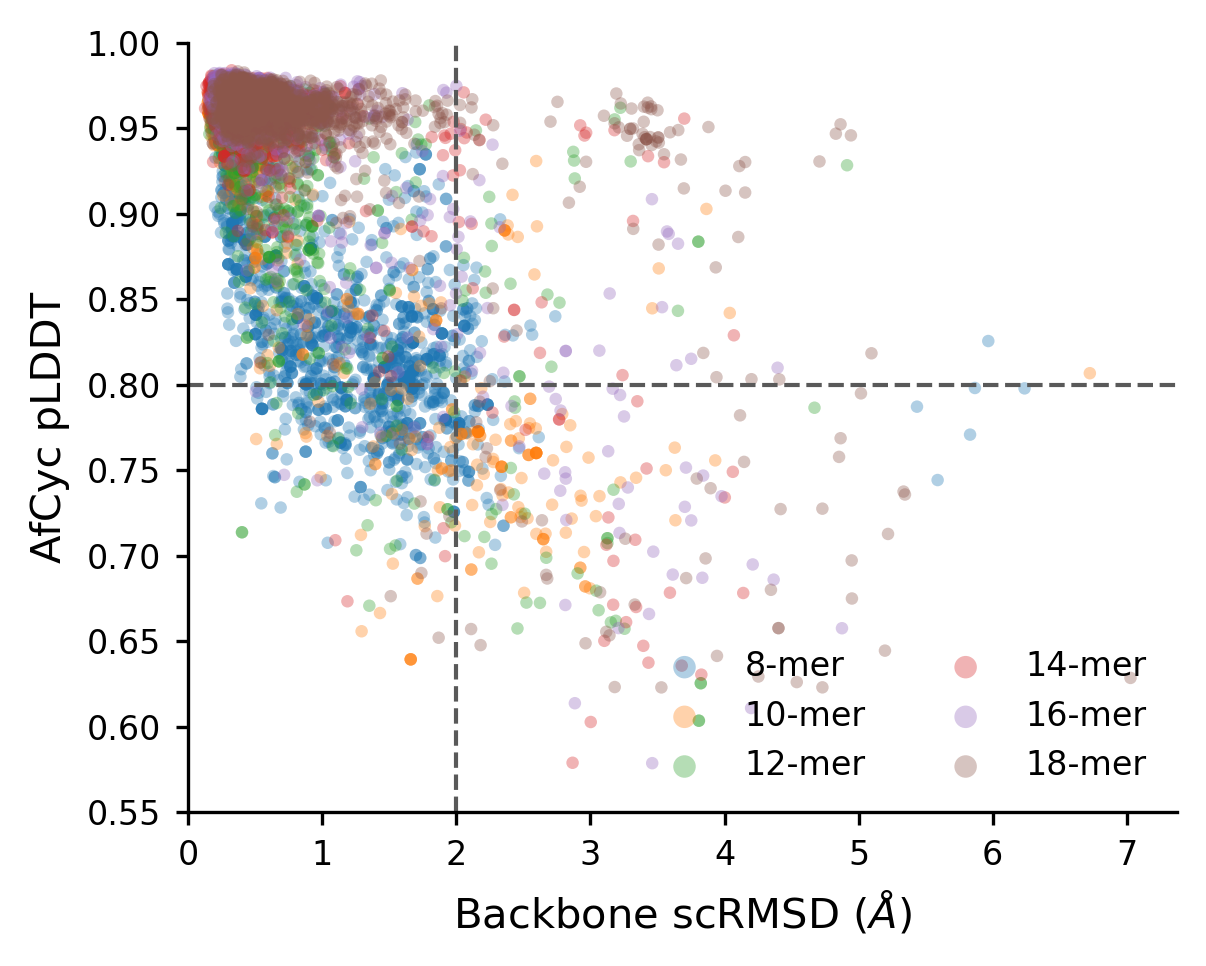
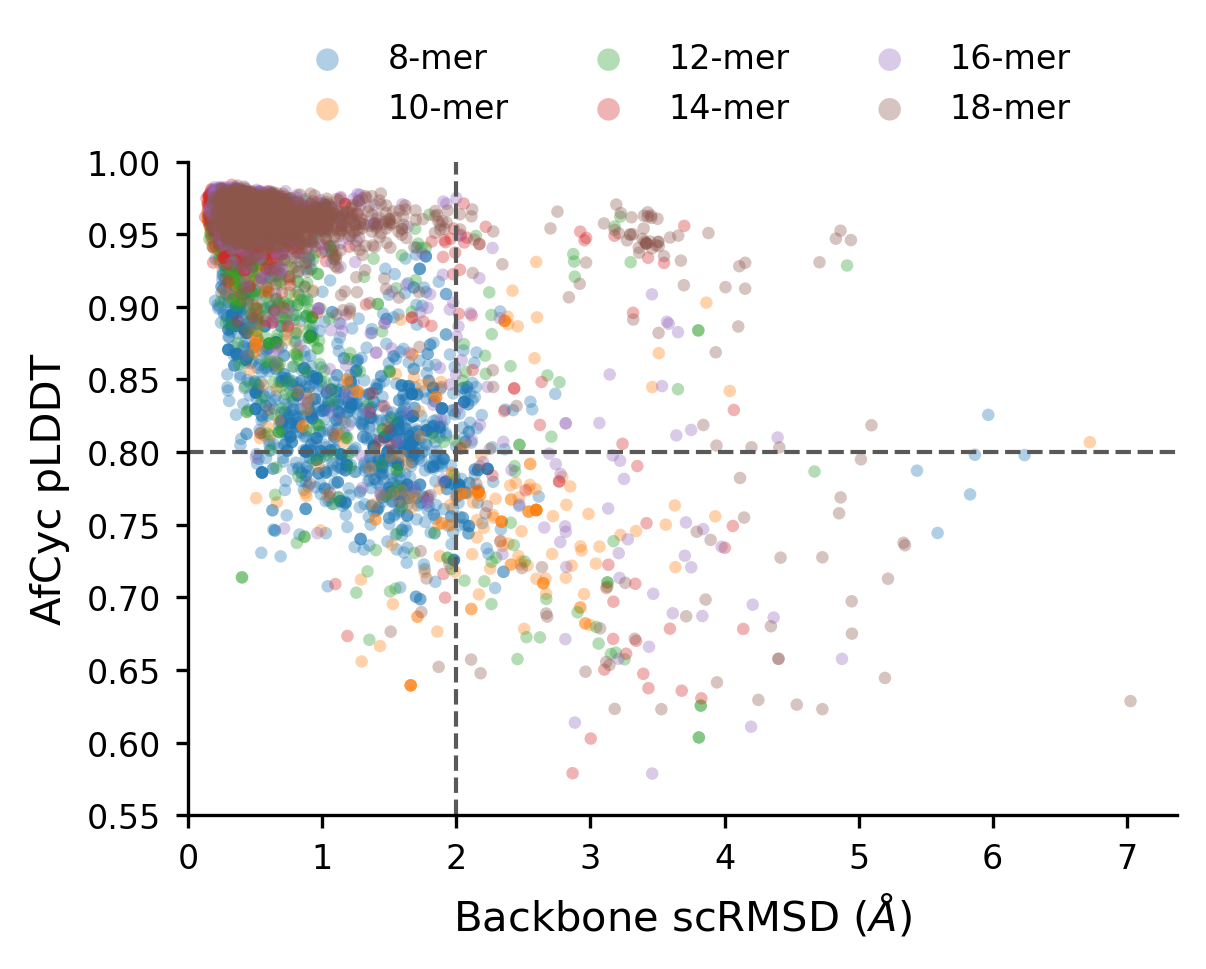
Move AfCyc scatter legend above data

diff --git a/experiments/007_RFD3_macrocycles/scripts/plot_afcyc_monomer_self_consistency.py b/experiments/007_RFD3_macrocycles/scripts/plot_afcyc_monomer_self_consistency.py
@@ -185,8 +185,9 @@ def plot_plddt_vs_rmsd(
 
     ax.legend(
         frameon=False,
-        loc="lower right",
-        ncol=2,
+        loc="lower center",
+        bbox_to_anchor=(0.5, 1.01),
+        ncol=3,
         markerscale=1.8,
     )
 
